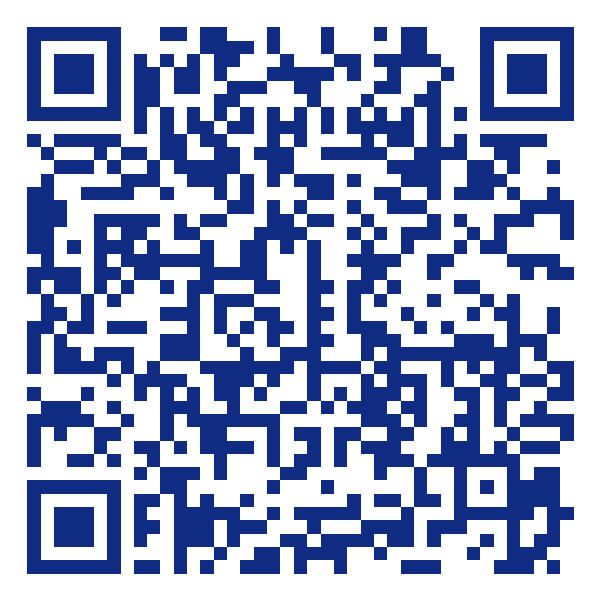
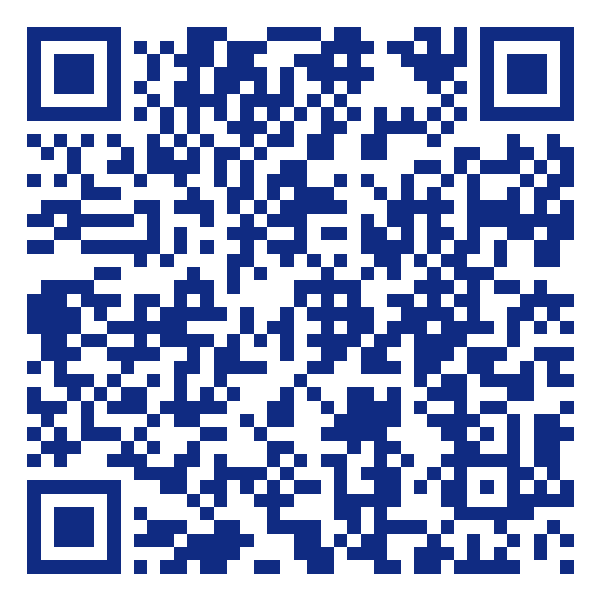
Add "Grounds Pass Perks" heading to landing page; raise Single Event Pass to R$100
Splits the landing page's perks into two groups: mocktails (universal,
included on every plan) stays as its own line before a new "Grounds Pass
Perks — R$180/month" heading, under which the plan-specific perks (weekly
events, premium WhatsApp meetups, brand discounts) now sit — previously
all four were listed together with no indication most of them are
Grounds-Pass-only. Simplified the events bullet to drop its now-redundant
"for Grounds Pass holders" phrase since the heading covers that.

Also raises the Single Event Pass price from R$80 to R$100 (£12 -> £15
for PayPal/Wise) — regenerated and decode-verified the Pix and Wise QR
codes to match, updated the landing page's animated price counter, and
updated the README's price references.

Claude-Session: https://claude.ai/code/session_01HFPMNeaAPvAji3c197tfHJ

diff --git a/script.js b/script.js
@@ -3,7 +3,7 @@
 // ---------------------------------------------------------------------------
 const CONFIG = {
   // Single Event Pass — one specific date, picked on the select-event screen.
-  price: "R$80",
+  price: "R$100",
 
   // Grounds Pass — the monthly membership. Access to every event for a
   // month, plus the invite-only premium WhatsApp group (day-to-day
@@ -61,7 +61,7 @@ const CONFIG = {
   // GBP amount for each plan, shown on the PayPal button/Wise QR and built
   // into their links. Independent from the Reais prices above — update
   // both if you ever reprice.
-  gbpAmount: { single: 12, monthly: 26, founding: 100 },
+  gbpAmount: { single: 15, monthly: 26, founding: 100 },
 
   // WhatsApp number applicants send payment proof to, digits only with
   // country code, no "+", spaces, or leading 0 (e.g. UK 07830 067043 -> 447830067043).
@@ -224,8 +224,9 @@ const TRANSLATIONS = {
     landing: {
       eyebrow: "Rio de Janeiro · Applications Open Now",
       lede: "Find your Common Ground — apply now.",
+      perksHeading: "Grounds Pass Perks — {monthlyPrice}/month",
       perks: {
-        events: "Weekly events for Grounds Pass holders, announced through WhatsApp",
+        events: "Weekly events, announced through WhatsApp",
         mocktails: "Coffee and matcha-based mocktails included every time",
         groupchat: "Community WhatsApp access, plus complimentary meetups for members — your weekly ritual",
         brands: "Discounts with a curated lineup of brands, hand-picked to match our aesthetic",
@@ -331,8 +332,9 @@ const TRANSLATIONS = {
     landing: {
       eyebrow: "Rio de Janeiro · Inscrições Abertas",
       lede: "Encontre seu Common Ground — inscreva-se agora.",
+      perksHeading: "Vantagens do Grounds Pass — {monthlyPrice}/mês",
       perks: {
-        events: "Encontros semanais para pass-holders, anunciados no WhatsApp",
+        events: "Encontros semanais, anunciados no WhatsApp",
         mocktails: "Mocktails de café e matchá incluídos sempre",
         groupchat: "Acesso à comunidade no WhatsApp, além de encontros de cortesia para membros — seu ritual semanal",
         brands: "Descontos com marcas cuidadosamente escolhidas para combinar com a nossa estética",
@@ -438,8 +440,9 @@ const TRANSLATIONS = {
     landing: {
       eyebrow: "Río de Janeiro · Inscripciones Abiertas",
       lede: "Encuentra tu Common Ground — solicita ahora.",
+      perksHeading: "Ventajas del Grounds Pass — {monthlyPrice}/mes",
       perks: {
-        events: "Encuentros semanales para pass-holders, anunciados por WhatsApp",
+        events: "Encuentros semanales, anunciados por WhatsApp",
         mocktails: "Mocktails de café y matcha incluidos siempre",
         groupchat: "Acceso a la comunidad de WhatsApp, además de encuentros de cortesía para miembros — tu ritual semanal",
         brands: "Descuentos con marcas cuidadosamente elegidas para combinar con nuestra estética",
@@ -598,6 +601,10 @@ const whatsappBtn = document.getElementById("whatsapp-btn");
 // ---------------------------------------------------------------------------
 function renderLandingFinePrint() {
   document.getElementById("landing-fine-print").textContent = t("landing.finePrint").replace("{price}", CONFIG.price);
+}
+
+function renderLandingPerksHeading() {
+  document.getElementById("landing-perks-heading").textContent = t("landing.perksHeading").replace("{monthlyPrice}", CONFIG.monthlyMembershipPrice);
 }
 
 function renderApprovedFinePrint() {
@@ -931,6 +938,7 @@ function applyLang(lang) {
   });
 
   renderLandingFinePrint();
+  renderLandingPerksHeading();
   renderApprovedFinePrint();
   renderPlanCard();
   renderMenuLinks();

diff --git a/index.html b/index.html
@@ -39,8 +39,11 @@
         <h1 class="display">Common Ground Social Club</h1>
         <p class="lede" data-i18n="landing.lede">Find your Common Ground — apply now.</p>
         <ul class="perks-list">
-          <li data-i18n="landing.perks.events">Weekly events with an international crowd</li>
           <li data-i18n="landing.perks.mocktails">Coffee and matcha-based mocktails included every time</li>
+        </ul>
+        <p class="perks-heading" id="landing-perks-heading"></p>
+        <ul class="perks-list">
+          <li data-i18n="landing.perks.events">Weekly events, announced through WhatsApp</li>
           <li data-i18n="landing.perks.groupchat">Access to the Common Ground WhatsApp community group chat</li>
           <li data-i18n="landing.perks.brands">Discounts with a curated lineup of brands, hand-picked to match our aesthetic</li>
         </ul>
@@ -62,7 +65,7 @@
           <div class="stat-label" data-i18n="landing.stats.founding">Founding Member spots</div>
         </div>
         <div class="stat">
-          <div class="stat-number" data-prefix="R$" data-target="80">R$0</div>
+          <div class="stat-number" data-prefix="R$" data-target="100">R$0</div>
           <div class="stat-label" data-i18n="landing.stats.price">Starting price per event</div>
         </div>
       </div>

diff --git a/styles.css b/styles.css
@@ -225,6 +225,18 @@ main {
   max-width: 38ch;
 }
 
+/* Introduces the Grounds-Pass-specific perks list below it — the mocktails
+   perk above it is universal (every plan), so it sits outside/before this
+   heading rather than under it. */
+.perks-heading {
+  margin: 20px 0 8px;
+  font-size: 13px;
+  font-weight: 700;
+  letter-spacing: 0.02em;
+  color: var(--accent);
+  max-width: 38ch;
+}
+
 .perks-list li {
   display: flex;
   align-items: baseline;

diff --git a/README.md b/README.md
@@ -3,7 +3,7 @@ Find your common ground. A social club.
 
 ## Common Ground application page
 
-A social club in Rio de Janeiro. Applicants choose between a **Single Event Pass** (R$80 — a one-off, "try us out" ticket into a single event) and a **Grounds Pass** (R$180/month — the main product: every event that month, plus the premium WhatsApp group's day-to-day meetups and curated brand discounts). Coffee-based and matcha-based mocktails are included on every plan, every time.
+A social club in Rio de Janeiro. Applicants choose between a **Single Event Pass** (R$100 — a one-off, "try us out" ticket into a single event) and a **Grounds Pass** (R$180/month — the main product: every event that month, plus the premium WhatsApp group's day-to-day meetups and curated brand discounts). Coffee-based and matcha-based mocktails are included on every plan, every time.
 
 Three static pages, no build step, no backend required:
 
@@ -47,7 +47,7 @@ Details:
 - **PayPal**: `CONFIG.paypalLink` — a [PayPal.me](https://paypal.me) link (`paypal.me/commongroundbr`). PayPal.me supports the amount directly in the URL (`/12GBP`), so each plan's exact link is built automatically. (An earlier PayPal "Request Money" link was deliberately *not* used here — those expire and aren't meant for repeat payers; PayPal.me links don't expire and work for anyone.)
 - **Wise**: `CONFIG.wiseLink` — a personal Wise pay-me link (`wise.com/pay/me/danielthomasw81`), with the amount appended as `?amount=X&currency=GBP` — confirmed working directly in the Wise app (it shows the right amount pre-filled on the "Scan to pay" screen). `CONFIG.wiseTag` (`@danielthomasw81`) is the copyable fallback shown under the QR. Each plan gets its own QR image (`assets/wise-qr.png`, `-monthly`, `-founding`) encoding that plan's exact link — regenerate them with any QR generator (or ask me) if you ever change the tag or `CONFIG.gbpAmount`.
 
-Both are priced in **GBP** rather than Reais (`CONFIG.gbpAmount` — currently £12 single / £26 monthly / £100 Founding Member) since that's the currency the PayPal/Wise accounts actually settle in — pricing directly in GBP avoids paying for two currency conversions (payer's currency → BRL → GBP) instead of one. Update `CONFIG.gbpAmount` if you ever reprice (and regenerate the Wise QRs to match).
+Both are priced in **GBP** rather than Reais (`CONFIG.gbpAmount` — currently £15 single / £26 monthly / £100 Founding Member) since that's the currency the PayPal/Wise accounts actually settle in — pricing directly in GBP avoids paying for two currency conversions (payer's currency → BRL → GBP) instead of one. Update `CONFIG.gbpAmount` if you ever reprice (and regenerate the Wise QRs to match).
 
 The pre-filled WhatsApp message also names which method was used ("paid via PayPal") so you can tell at a glance which inbox to check for the payment when confirming someone on WhatsApp.
 
@@ -76,7 +76,7 @@ Since there's no backend, there's no way to gate this automatically — post the
 
 **Grounds Pass is the main product** — the payment screen leads with it: it's first in the plan toggle, carries a "Recommended" badge (`approved.recommendedLabel`, a small pill on the plan button — see `.plan-btn-badge` in `styles.css`), and is what's pre-selected by default (`state.plan` defaults to `"monthly"` in `script.js`) for anyone landing directly on the payment screen via the `#approved` shortcut. **Single Event Pass is framed as the trial option** — its own sub-copy says "Try us out" (`approved.plans.single.sub`) — for people who want to test the club before committing to a month.
 
-The payment screen lets someone pay for a **Grounds Pass** (`CONFIG.monthlyMembershipPrice`, R$180 — every event that month, plus the premium WhatsApp group), a **Single Event Pass** (`CONFIG.price`, R$80 — this event only, plus the standard WhatsApp group), or **Founding Member** (`CONFIG.foundingMemberPrice`, R$699 — a one-time payment for lifetime access, plus the premium WhatsApp group) — each with its own QR code and Pix amount, and its own pre-filled WhatsApp message so you can tell which one someone paid for. Reached the normal way, Single Event Pass comes from picking a date on the select-event step above; Grounds Pass and Founding Member both come from their own skip links there instead — picking a date always overrides the default back to Single Event Pass, since that's an explicit, deliberate choice.
+The payment screen lets someone pay for a **Grounds Pass** (`CONFIG.monthlyMembershipPrice`, R$180 — every event that month, plus the premium WhatsApp group), a **Single Event Pass** (`CONFIG.price`, R$100 — this event only, plus the standard WhatsApp group), or **Founding Member** (`CONFIG.foundingMemberPrice`, R$699 — a one-time payment for lifetime access, plus the premium WhatsApp group) — each with its own QR code and Pix amount, and its own pre-filled WhatsApp message so you can tell which one someone paid for. Reached the normal way, Single Event Pass comes from picking a date on the select-event step above; Grounds Pass and Founding Member both come from their own skip links there instead — picking a date always overrides the default back to Single Event Pass, since that's an explicit, deliberate choice.
 
 There's no backend or accounts here, so **Grounds Pass renewal, and spot-tracking for Founding Member, are on you to track manually** — e.g. a running tally against their name (a note, a spreadsheet, whatever you're already using to manage the WhatsApp groups), since the site itself has no way to know when someone's paid month is up, or to hand out live-assigned Founding Member numbers. There's no recurring billing here either — a Grounds Pass is a one-off Pix/PayPal/Wise payment for one month's access, same as Founding Member is a one-off payment for lifetime access; you note when someone's month is up and follow up for the next payment when it comes due.
 
@@ -89,7 +89,7 @@ Capped at `CONFIG.foundingMemberSpotsTotal` (currently 20) to keep it exclusive 
 ### Before you go live, edit `script.js` → `CONFIG`:
 
 1. **`formEndpoint`** — already set to your Formspree endpoint (`https://formspree.io/f/mbgjrjnp`), so applications submit there automatically. They're also kept as a local-only backup in the browser's `localStorage` either way.
-2. **`price`** / **`monthlyMembershipPrice`** / **`foundingMemberPrice`** — currently `R$80` per event (Single Event Pass), `R$180` for the Grounds Pass, and `R$699` for Founding Member, shown on the landing and payment screens (should match the amounts encoded in the three Pix QRs).
+2. **`price`** / **`monthlyMembershipPrice`** / **`foundingMemberPrice`** — currently `R$100` per event (Single Event Pass), `R$180` for the Grounds Pass, and `R$699` for Founding Member, shown on the landing and payment screens (should match the amounts encoded in the three Pix QRs).
 3. **`instagramHandle`** — shown on the payment screen.
 4. **`questions`** — the application questions, in order. Each is `type: "choice"` (single-select, needs an `options` array, tapping one auto-advances), `type: "multi"` (multi-select — same `options` array, tap any number then hit Continue; set `hint` for a note like "Choose one or more"), or `type: "text"`/`"textarea"` (a free-response field — `"text"` is one short line like a name, `"textarea"` is a longer answer). A `"choice"` question can also set `writeIn` to the `en` value of one option (e.g. "Something else") — selecting it opens a text box instead of submitting right away, so you get a real answer instead of a vague catch-all; pair it with `writeInPlaceholder`. An optional `key` (e.g. `"name"`) surfaces that answer as its own field in the saved application, in addition to the full Q&A list.
 
